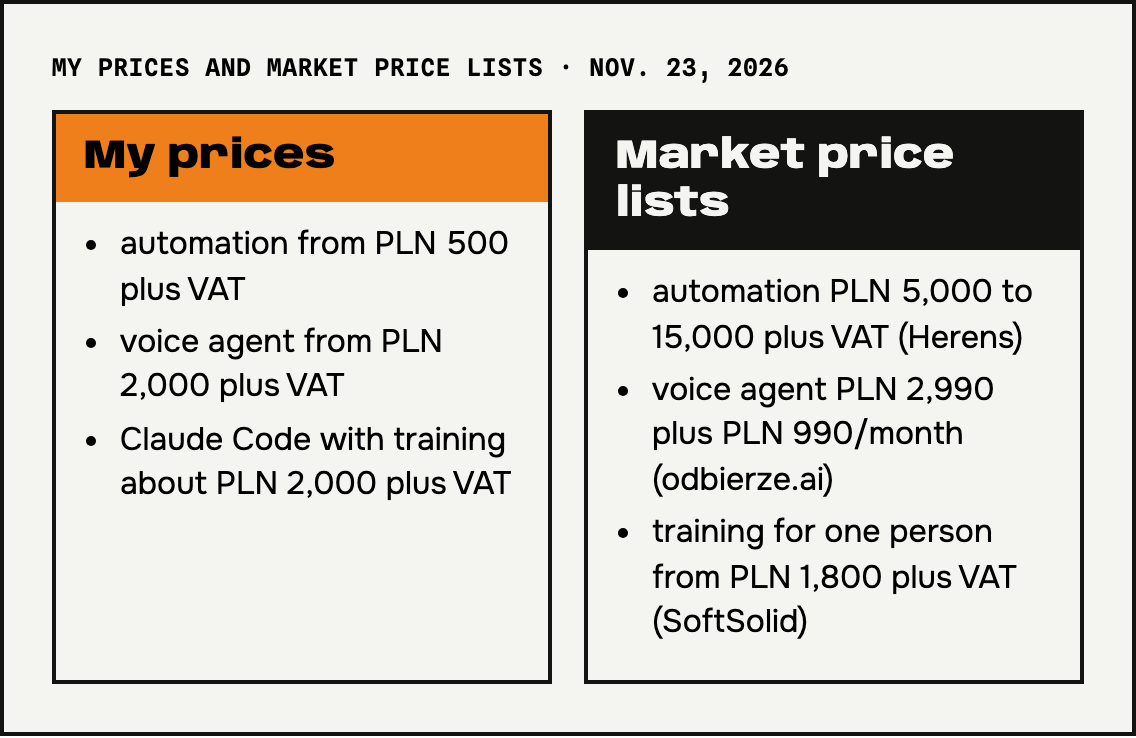
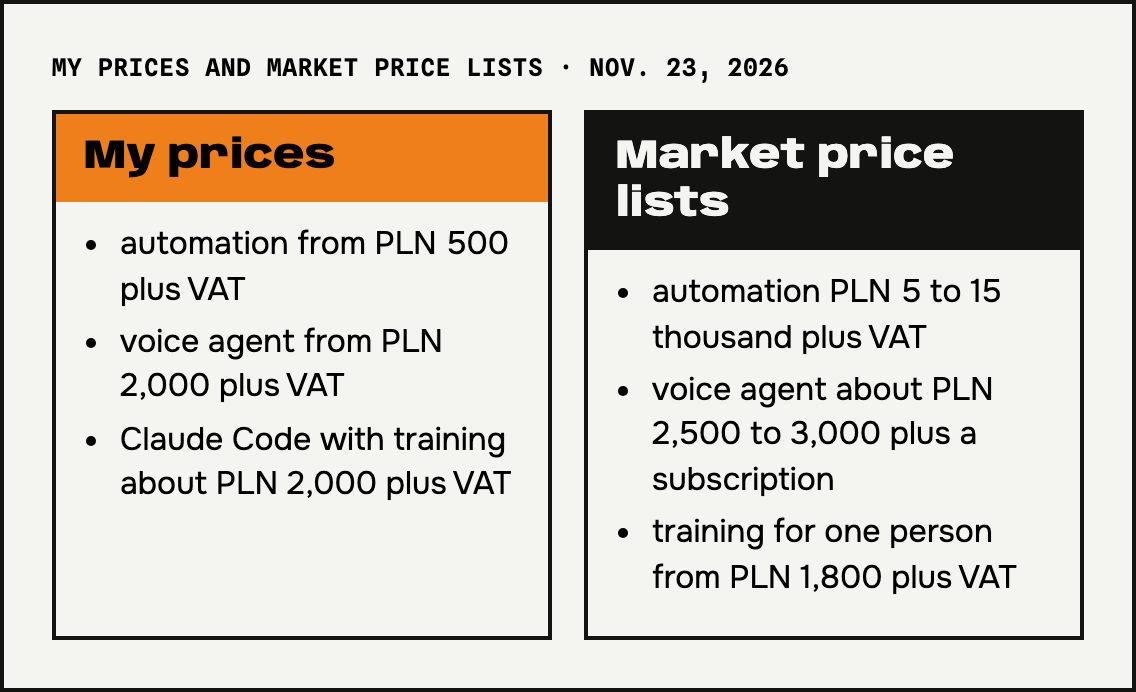
fix(wpisy): wpis o kosztach AI bez nazw konkurencji

diff --git a/docs/blog-szkice/podglad/koszt-wdrozenia-ai-en.html b/docs/blog-szkice/podglad/koszt-wdrozenia-ai-en.html
@@ -36,7 +36,7 @@
 
 <figure class="graf" id="g2"><div class="et">My prices and market price lists · Nov. 23, 2026</div>
 <div class="kol"><section class="tak"><h3>My prices</h3><ul><li>automation from PLN 500 plus VAT</li><li>voice agent from PLN 2,000 plus VAT</li><li>Claude Code with training about PLN 2,000 plus VAT</li></ul></section>
-<section class="nie"><h3>Market price lists</h3><ul><li>automation PLN 5,000 to 15,000 plus VAT (Herens)</li><li>voice agent PLN 2,990 plus PLN 990/month (odbierze.ai)</li><li>training for one person from PLN 1,800 plus VAT (SoftSolid)</li></ul></section></div></figure>
+<section class="nie"><h3>Market price lists</h3><ul><li>automation PLN 5 to 15 thousand plus VAT</li><li>voice agent about PLN 2,500 to 3,000 plus a subscription</li><li>training for one person from PLN 1,800 plus VAT</li></ul></section></div></figure>
 
 <svg id="mini" class="mini" xmlns="http://www.w3.org/2000/svg" viewBox="0 0 480 270"><rect width="480" height="270" fill="#EF7F1A"/>
 <text x="28" y="44" font-family="Spline Sans Mono" font-weight="600" font-size="14" fill="#131412">AI IMPLEMENTATION COST</text>

diff --git a/docs/blog-szkice/podglad/koszt-wdrozenia-ai.html b/docs/blog-szkice/podglad/koszt-wdrozenia-ai.html
@@ -36,7 +36,7 @@
 
 <figure class="graf" id="g2"><div class="et">Moje ceny i cenniki rynku · 23.11.2026</div>
 <div class="kol"><section class="tak"><h3>Moje ceny</h3><ul><li>automatyzacja od 500 zł netto</li><li>voicebot od 2000 zł netto</li><li>Claude Code ze szkoleniem około 2000 zł netto</li></ul></section>
-<section class="nie"><h3>Cenniki rynku</h3><ul><li>automatyzacja 5 do 15 tys. zł netto (Herens)</li><li>voicebot 2990 zł plus 990 zł/mies. (odbierze.ai)</li><li>szkolenie jednej osoby od 1800 zł netto (SoftSolid)</li></ul></section></div></figure>
+<section class="nie"><h3>Cenniki rynku</h3><ul><li>automatyzacja 5 do 15 tys. zł netto</li><li>voicebot około 2500 do 3000 zł plus abonament</li><li>szkolenie jednej osoby od 1800 zł netto</li></ul></section></div></figure>
 
 <svg id="mini" class="mini" xmlns="http://www.w3.org/2000/svg" viewBox="0 0 480 270"><rect width="480" height="270" fill="#EF7F1A"/>
 <text x="28" y="44" font-family="Spline Sans Mono" font-weight="600" font-size="14" fill="#131412">KOSZT WDROŻENIA AI</text>

diff --git a/src/content/wpisy/ile-kosztuje-wdrozenie-ai/en.md b/src/content/wpisy/ile-kosztuje-wdrozenie-ai/en.md
@@ -6,7 +6,7 @@ miniatura:
   plik: "/src/assets/wpisy/ile-kosztuje-wdrozenie-ai-en-miniatura.png"
   alt: "From PLN 500 plus VAT for a simple automation and a voice agent from PLN 2,000 on an orange background"
 tlumaczenie: ai
-zrodlo: 64256401cb52a1da0540a6be7bc0f4fa96b4334d5252db1980628d40aa498600
+zrodlo: 74dbecf320ac7d9764081902b32303e2d3085b8fe3ecfb66be9575e26cc3903a
 adresEn: "ai-implementation-cost"
 ---
 **How much AI implementation costs** is the question I hear from small business owners before we even talk about their process. I answer with numbers from my own projects: a simple automation starts at PLN 500 plus VAT, and a voice agent starts at PLN 2,000 plus VAT. See what the price depends on and which costs remain after launch, then email me about what you want to automate.
@@ -39,13 +39,13 @@ I run complex automations that have to work all the time in n8n on a self-hosted
 
 ![My prices compared with market price lists: automation, voice agent, and Claude Code training, amounts plus VAT](/src/assets/wpisy/ile-kosztuje-wdrozenie-ai-en-2.png)
 
-*Market price lists from company websites, checked on Nov. 23, 2026.*
+*Market price lists from implementation firms' websites, checked on Nov. 23, 2026.*
 
 ## My prices compared with the market
 
-On Nov. 23, 2026, I checked the price lists that Google shows in AI answers to questions about cost. Herens lists a single automation at usually PLN 5 to 15 thousand plus VAT, and AutomAIze lists AI implementation at PLN 8,000 to 16,000. For a voice agent, odbierze.ai charges PLN 2,990 for setup and PLN 990 a month in its starter package. SimpleFast lists from PLN 2,500 plus VAT to build the bot and PLN 299 to 1,500 plus VAT a month for maintenance. Claude Code training for one person costs from PLN 1,800 plus VAT at SoftSolid.
+On Nov. 23, 2026, I checked the price lists that Google shows in AI answers to questions about cost. Implementation firms usually list a single automation at PLN 5 to 15 thousand plus VAT, and AI implementation with integrations from PLN 8,000 up. For a voice agent, starter packages cost about PLN 2,500 to 3,000 for setup, plus PLN 299 to 1,500 a month for maintenance. Claude Code training for one person starts at PLN 1,800 plus VAT in these price lists.
 
-Compare the scope, not just the amount. I give the price of the simplest version, and I quote a larger project separately, after we talk.
+Compare the scope, not just the amount. I give the price of the simplest version, and I quote a larger project separately, after we talk about your process and the software you use.
 
 ## Frequently asked questions about AI implementation cost
 

diff --git a/src/content/wpisy/ile-kosztuje-wdrozenie-ai/pl.md b/src/content/wpisy/ile-kosztuje-wdrozenie-ai/pl.md
@@ -36,13 +36,13 @@ Rozbudowane automatyzacje, które muszą działać cały czas, stawiam w n8n na 
 
 ![Porównanie moich cen z cennikami rynku: automatyzacja, voicebot i szkolenie z Claude Code, kwoty netto](/src/assets/wpisy/ile-kosztuje-wdrozenie-ai-2.png)
 
-*Cenniki rynku według stron firm, sprawdzone 23 listopada 2026.*
+*Cenniki rynku według stron firm wdrożeniowych, sprawdzone 23 listopada 2026.*
 
 ## Moje ceny na tle cenników rynku
 
-Sprawdziłem 23 listopada 2026 cenniki, które Google pokazuje w odpowiedziach AI na pytania o koszt. Herens podaje za pojedynczą automatyzację zwykle od 5 do 15 tys. zł netto, a AutomAIze za wdrożenie AI od 8000 do 16 000 zł. Za voicebota odbierze.ai bierze w pakiecie startowym 2990 zł za wdrożenie i 990 zł miesięcznie. SimpleFast podaje od 2500 zł netto za stworzenie bota i od 299 do 1500 zł netto miesięcznie za utrzymanie. Szkolenie z Claude Code dla jednej osoby kosztuje w SoftSolid od 1800 zł netto.
+Sprawdziłem 23 listopada 2026 cenniki, które Google pokazuje w odpowiedziach AI na pytania o koszt. Firmy wdrożeniowe podają za pojedynczą automatyzację zwykle od 5 do 15 tys. zł netto, a za wdrożenie AI z integracjami od 8000 zł wzwyż. Za voicebota pakiety startowe kosztują około 2500 do 3000 zł za wdrożenie, a do tego od 299 do 1500 zł miesięcznie za utrzymanie. Szkolenie z Claude Code dla jednej osoby zaczyna się w cennikach od 1800 zł netto.
 
-Porównuj zakres, a nie samą kwotę. Ja podaję cenę najprostszej wersji, a większy projekt wyceniam osobno, po rozmowie.
+Porównuj zakres, a nie samą kwotę. Ja podaję cenę najprostszej wersji, a większy projekt wyceniam osobno, po rozmowie o Twoim procesie i programach, z których korzystasz.
 
 ## Najczęstsze pytania o to, ile kosztuje wdrożenie AI
 

diff --git a/CHANGELOG.md b/CHANGELOG.md
@@ -1,3 +1,9 @@
+## 2026-11-23 19:00, Claude Code
+
+**✅ Zrobione:** wpis o kosztach AI (PL, EN, grafika 2 w obu językach): bez nazw firm konkurencji (decyzja Roberta); ceny rynku opisane ogólnie jako cenniki firm wdrożeniowych, zakresy zgodne ze źródłami w `docs/seo/pomiar-ai.md` (utrzymanie voicebota 299 do 1500 zł/mies., wdrożenie z integracjami od 8000 zł). DNK OK bez uwag, kontrola tłumaczenia OK, build OK.
+
+**🎯 Następny krok:** akceptacja tekstu przez Roberta, potem Task 8 (`/code-review`, PR, wgranie po zgodzie).
+
 ## 2026-11-23 18:45, Claude Code
 
 **✅ Zrobione (gałąź `wpis-koszt-wdrozenia-ai`):** Task 4: wpis „Ile kosztuje wdrożenie AI w firmie” PL i EN (`/en/posts/ai-implementation-cost/`), fraza główna „ile kosztuje wdrożenie AI”, dodatkowa „ile kosztuje agent AI” (wolumeny w `frazy-uslug.md`). Tylko ceny Roberta z `ceny-uslug.md` i fakty ze stron usług; ceny rynku z podanym źródłem (Herens, AutomAIze, odbierze.ai, SimpleFast, SoftSolid, 23.11). 2 grafiki i miniatura PL i EN (`docs/blog-szkice/podglad/koszt-wdrozenia-ai*.html`, `zrzut-koszt-ai.mjs [en]`). DNK: OK bez uwag. Kontrola tłumaczeń 23 pary OK. `npm run sprawdz`: 249 testów, 192 e2e.
